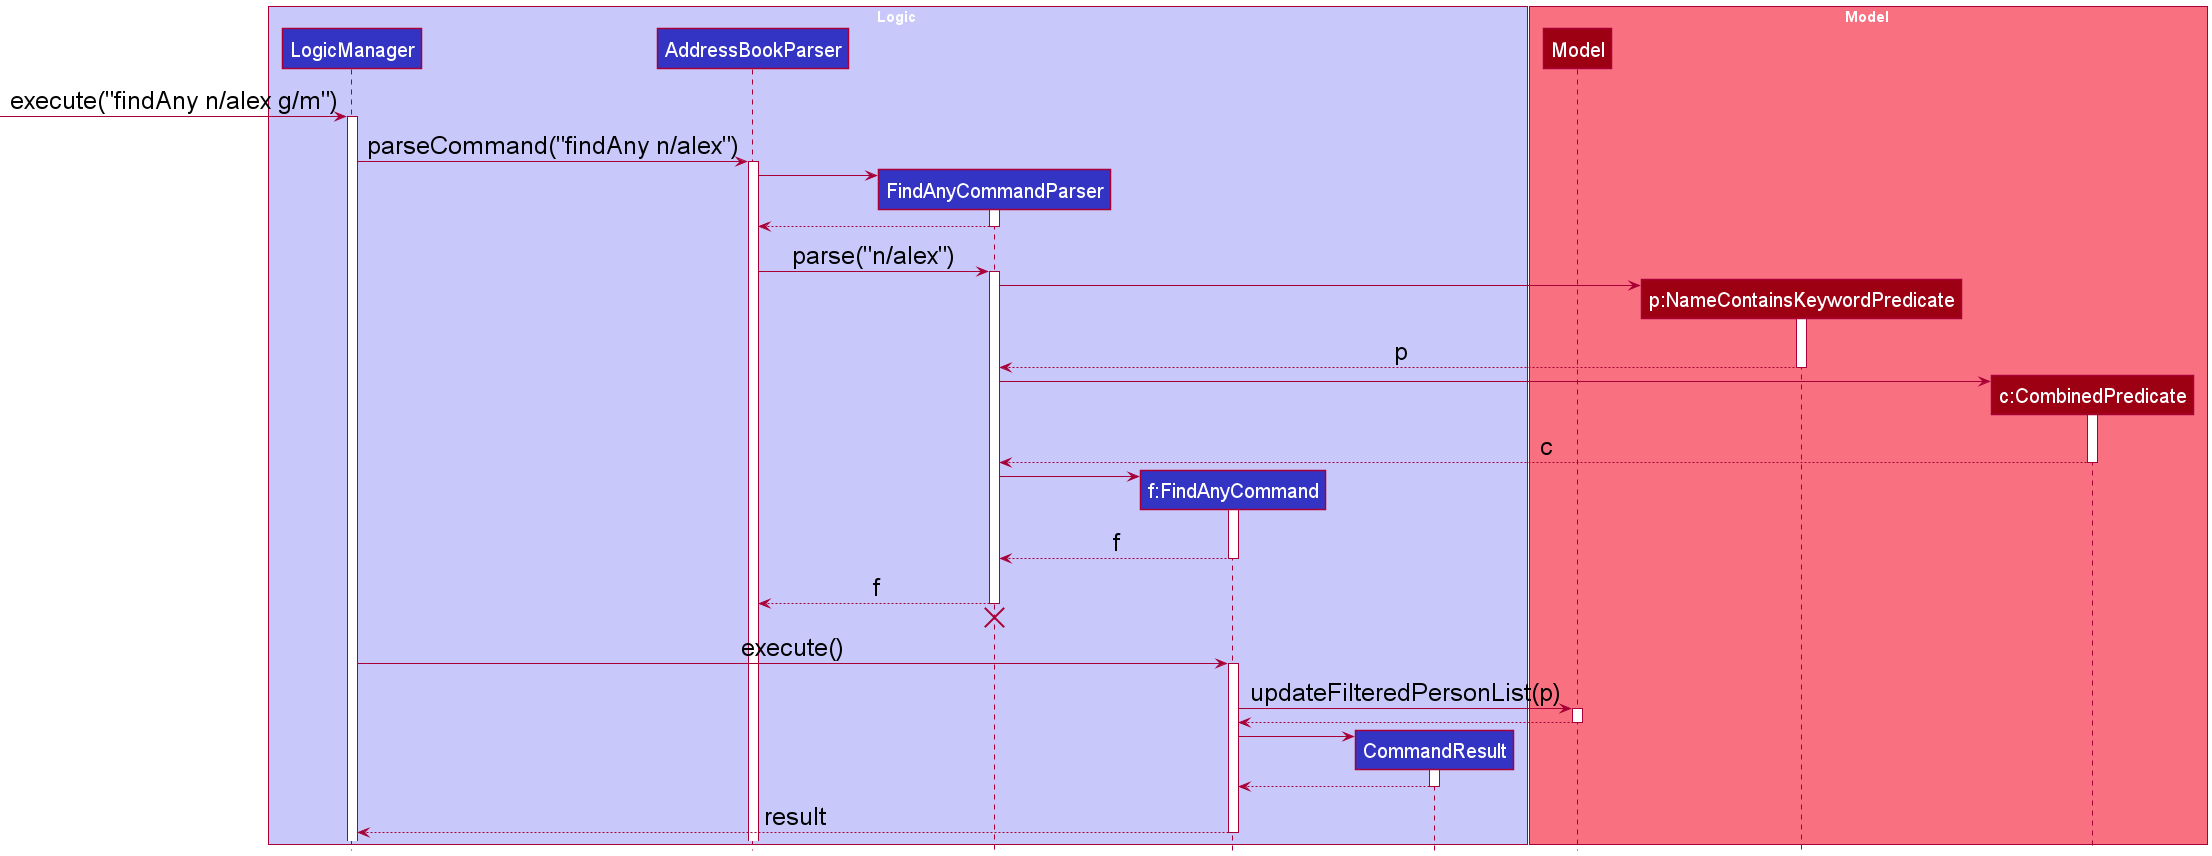
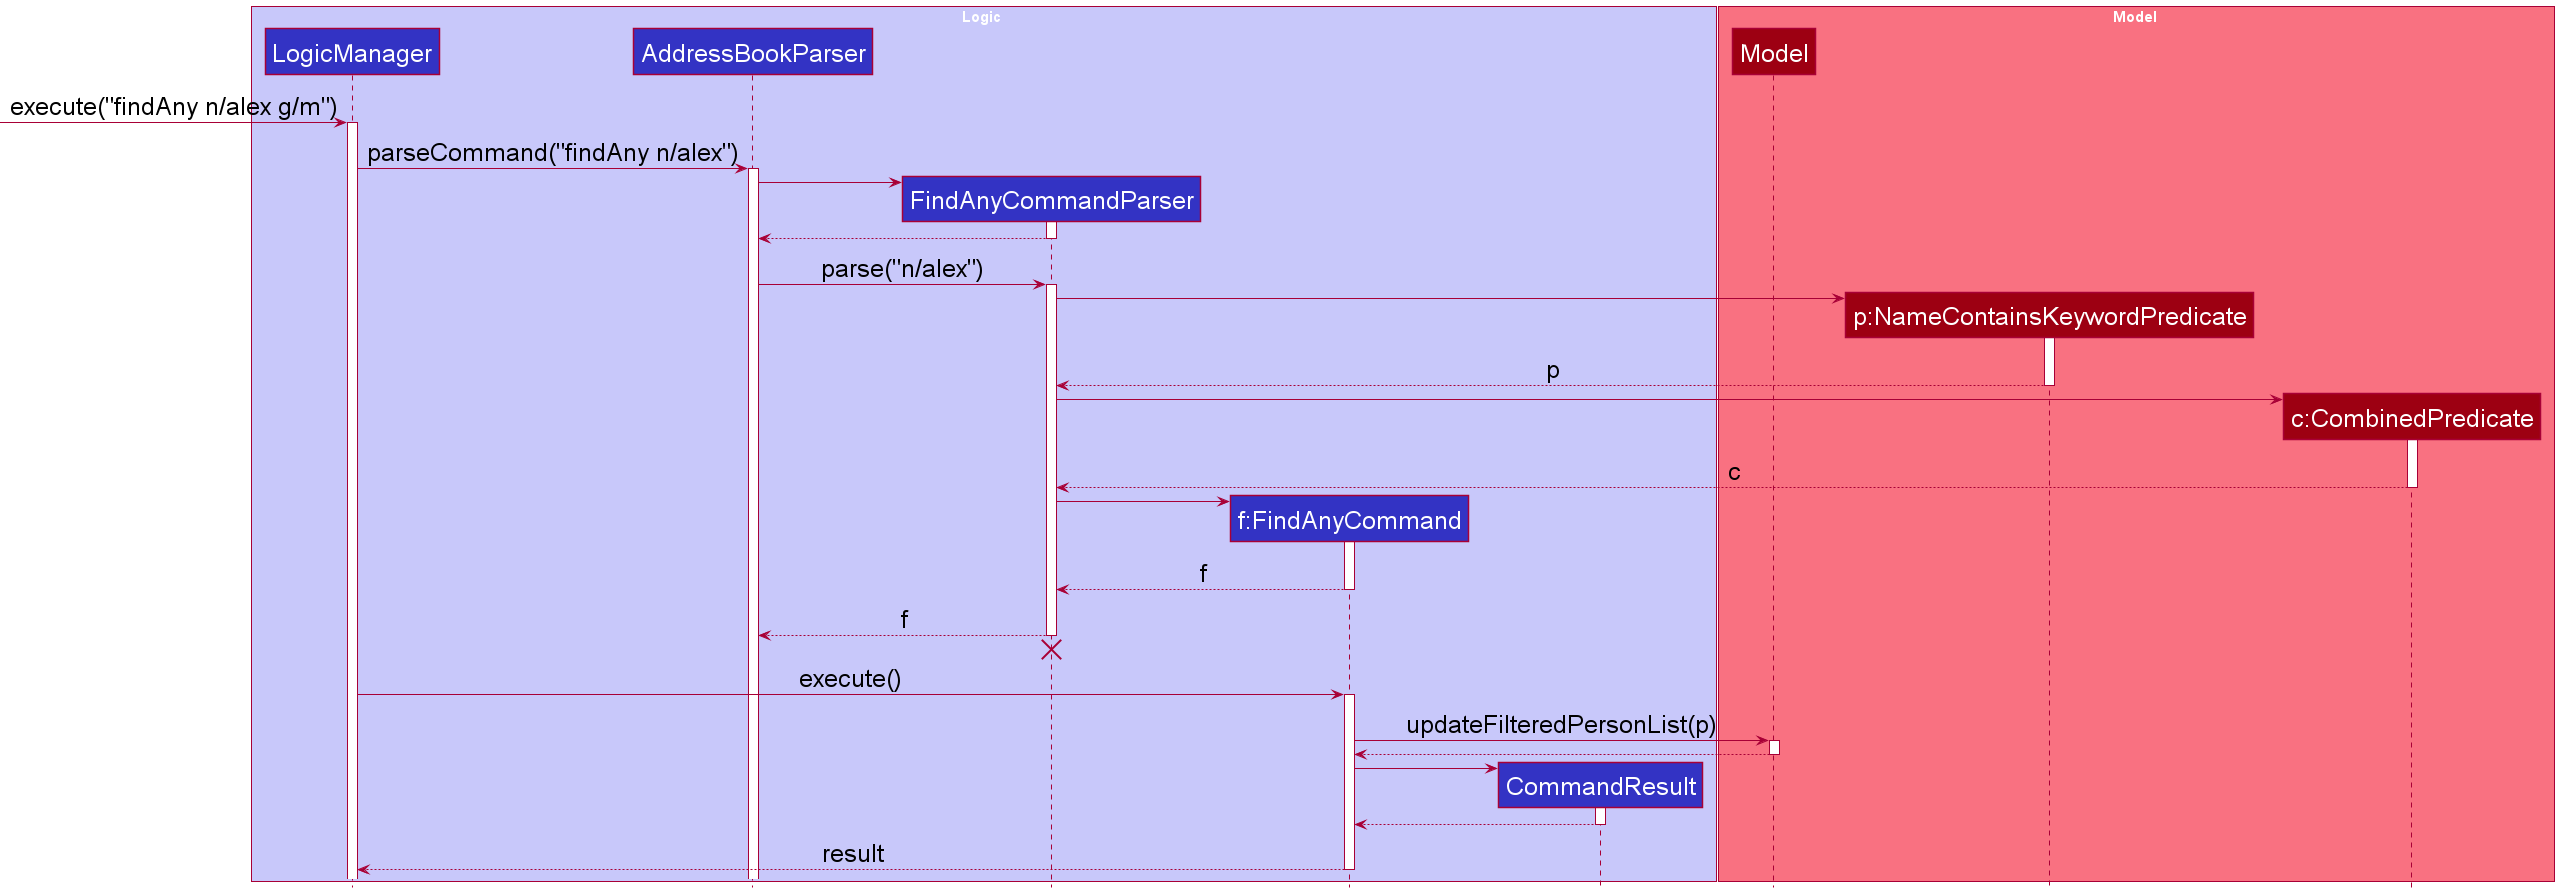
fix typo and style errors

Changed region(s): [[0.0, 0.0, 1.0, 1.0], [0.2495, 0.0, 0.4367, 0.0911], [0.811, 0.0, 0.8734, 0.0304]]

diff --git a/docs/DeveloperGuide.md b/docs/DeveloperGuide.md
@@ -226,7 +226,7 @@ The find commands are facilitated by the LogicManager.
 The Sequence Diagram below illustrates the interactions within the Logic component for the `execute("n/alex g/m")` API call.
 
 <div markdown="span" class="alert alert-info">:information_source: **Note:** 
-While only the FindAny command was used for the examples below, the FindAll command works exactly the same way
+While only the findAny command was used for the examples below, the findAll command works exactly the same way
 </div>
 
 ![Interactions Inside the Logic Component for the `findAny' Command](images/FindSequenceDiagram.png)
@@ -239,7 +239,7 @@ The activity diagram below summarises what happens when a user executes a `findA
 
 **Aspect: Different types of find commands:**
 
-`findAny`: A contact would be displayed as long as it matches any of the keywords specified by the user in its respective fields
+`findAny`: A contact would be displayed as long as it matches any of the keywords specified by the user in its respective fields <br>
 `findAll`: A contact would be displayed only if it matches **ALL** of the keywords specified by the user in its respective fields
 
 * **Alternative 1 :** only findAny
